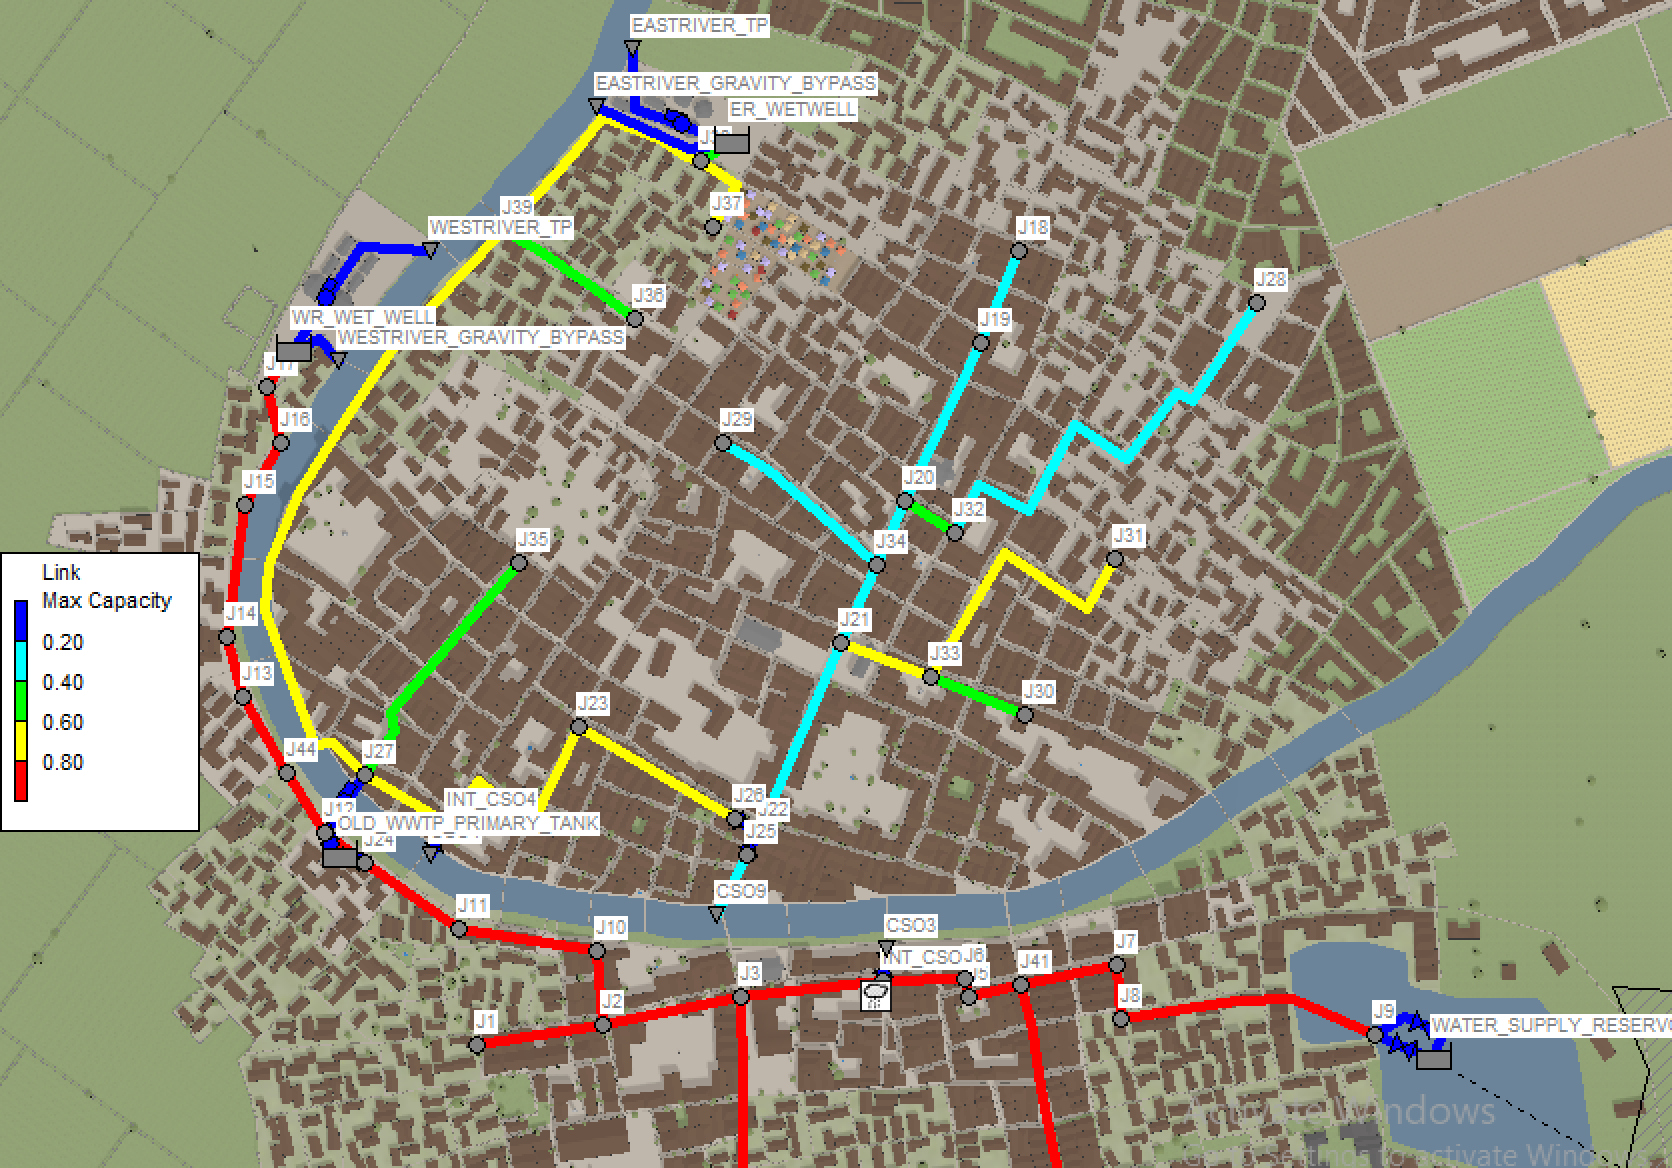
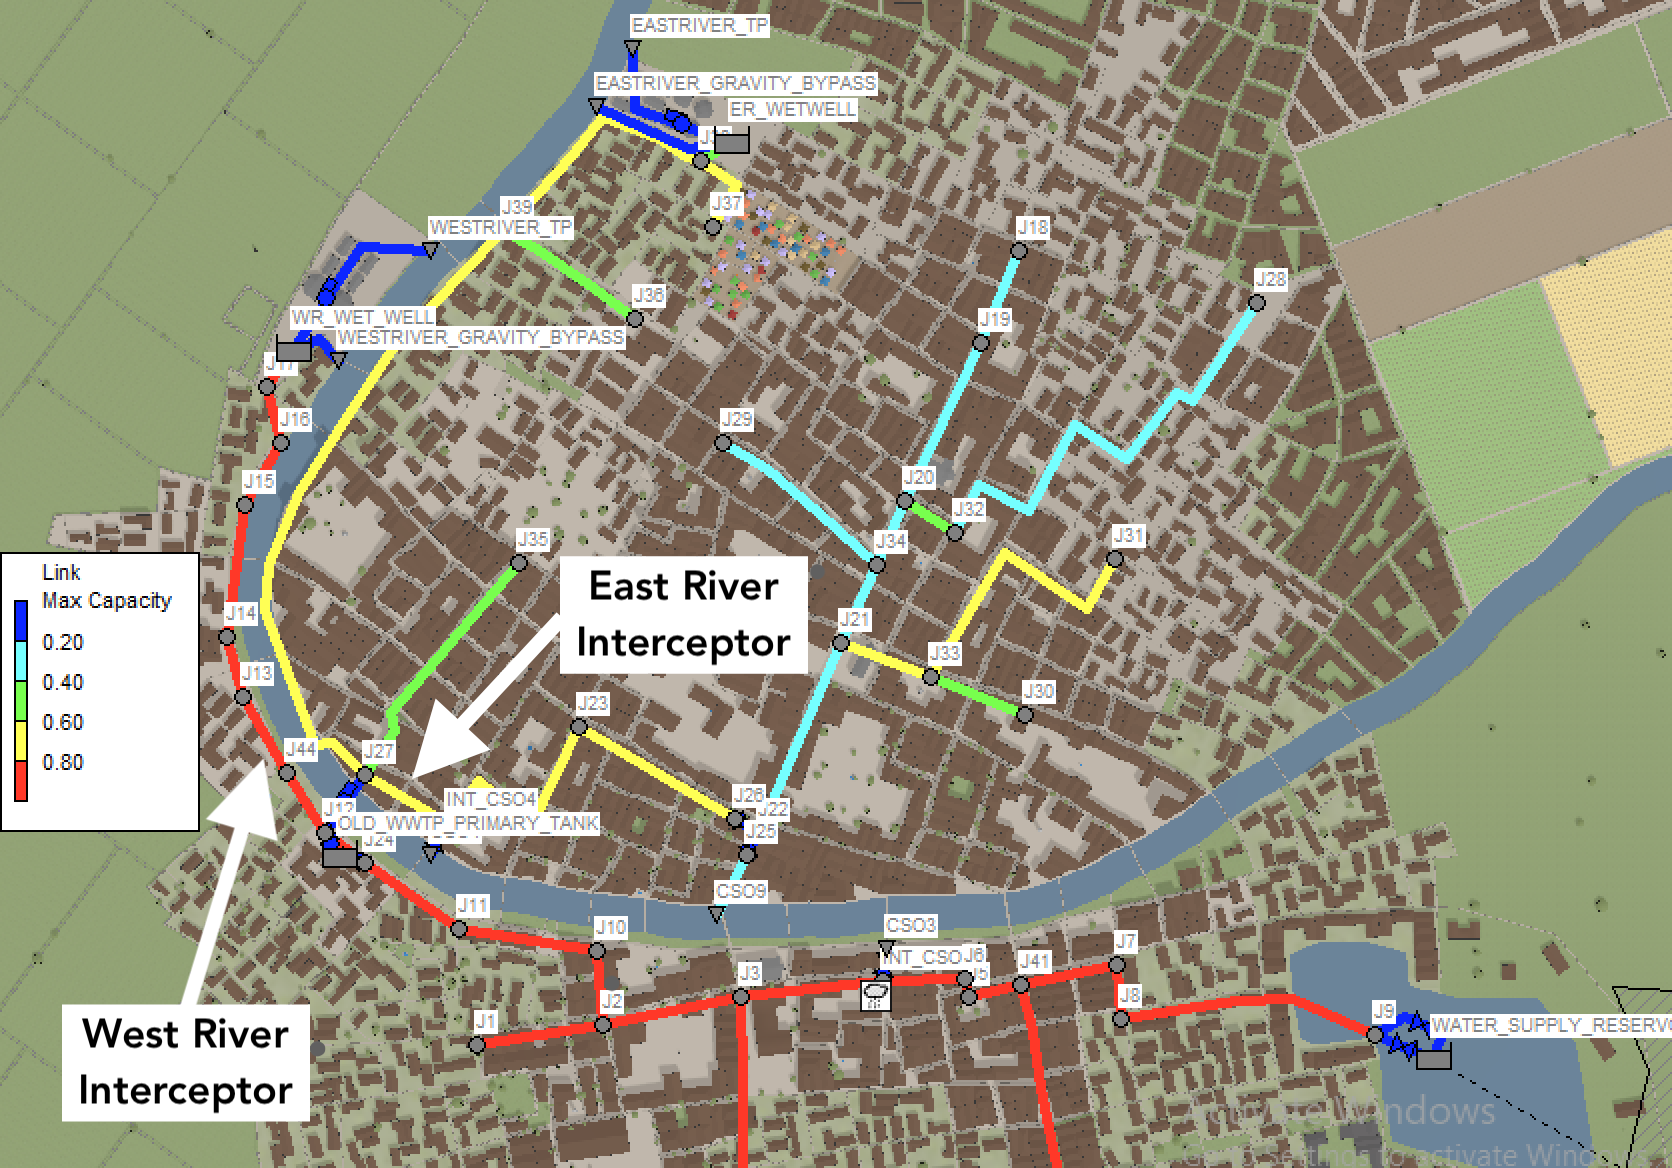
Updated README

diff --git a/README.md b/README.md
@@ -1,36 +1,98 @@
 # WEF Collection Systems and Stormwater Conference 2024 - Workshop A: Smart Sewer Applications and Utility Experiences
 
-Date: Mar 1st, 2024
+Date: Mar 4th, 2024
 
-Document Author(s): Bryant E. McDonnell, MS, PE, CP - [Hydroinformatics, LLC](https://www.hydroinformatics.io), Constantine Karos - [Xylem](www.xylem.com)
+Document Author(s): Bryant E. McDonnell - [Hydroinformatics, LLC](https://www.hydroinformatics.io), Constantine Karos - [Xylem](www.xylem.com), Luis Montestruque, [HydroDigital, LLC](https://www.hydrodigital.com/), Dayton Marchese, [OptiRTC](https://www.optirtc.com/), and Michael Tryby, USEPA
 
-Objective: Workshop Interactive Elements for Simulating a Network Controls
+Copyright (c) 2024: Hydroinformatics, LLC
+
+License: MIT License
+
+Objective: Workshop Interactive Elements for Simulating Network Real Time Controls
 
 ______
 
-This code / model was developed for the Water Environment Federation - Collection Systems and Stormwater Conference 2024.  This concept was to create a real-world hydrologic and hydraulic network with some adverse hydraulic conditions (flooding, surcharging, combined sewer overflows).  The attendees of the workshop are to be guided to propose and leverage available assets within the hydraulic network by use of real time controls.
+The code and model were developed for the Water Environment Federation - Collection Systems and Stormwater Conference 2024.  This concept was to create a real-world hydrologic and hydraulic network with some adverse hydraulic conditions (flooding, surcharging, combined sewer overflows).  The attendees of the workshop will be guided to develop and leverage <u>existing</u> system assets within the hydraulic network by use of real time controls.
 
 This scope of this code is to run the model as well as be a space where new control logic can be developed to operate the various controllable facilities.
 
 ____
 
-
+### System Layout
 
 ![base_condition](./_static/base_condition.png)
 
+### Compliance Objectives
+
+- Zero Flooding (Flow surfacing and coming up out of the top of a maintenance hole)
+- Zero CSO activations for the 1year storm event. Regulated by overflow site and fined $6,000 per activation. Activation == Overflow Volume > 0.001 MG. 
+- Zero Gravity bypasses at both WWTPs
+
 ### Key System Layout Details
 
-- The city if serviced by two WWTPs 
+- The city if serviced by two WWTPs
   - West River at 15 CFS peak | Gravity by-pass at 7ft wet-well depth
   - East River at 30 CFS peak | Gravity by-pass at 8ft wet-well depth
 - Three CSOs:
-  - North side of the river - CSO-4 and CSO-9.  CSO-4 is on the East River Interceptor and CSO-9 was the end of the original sewer ages ago where they did some primary treatment before they built the East River TP. 
+  - North side of the river - CSO-4 and CSO-9.  CSO-4 is on the East River Interceptor and CSO-9 was the end of the original sewer ages ago where they did some primary treatment before they built the East River TP.
   - South side of the river - CSO-3 situated on the West River Interceptor
-- River Crossing (can be pumped from South to the North side of the river)
-- Nearby the river crossing the Old WWTP Primary Tanks are still connected to the system as "gravity flow in", "pump out."  However, they are not used too frequently since there is a base cleaning cost.  They can be used during emergencies. This tank is approximately 0.5MG capacity of usable storage. 
-- The city drinking water reservoir is in the Southeast of town and has a dewater control gate as well as an emergency overflow.  Due to topography, the emergency overflow runs into the combined sewer system.  There is also a railroad running along the southern shoreline with limits opportunities.  
+- Nearby the river crossing the Old WWTP Primary Tanks are still connected to the system as "gravity flow in", "pump out."  However, they are not used too frequently since there is a base cleaning cost ($7,000 per event).  They can be used during emergencies. This tank is approximately 0.5MG capacity of usable storage.
+- River Crossing (can be pumped from South to the North side of the river).  This was built when they were in the process of decommissions the "Old WWTP" and after they expanded the East River TP
+- The city drinking water reservoir is in the Southeast of town and has a dewater control gate as well as an emergency overflow.  Due to topography, the emergency overflow runs into the combined sewer system.  There is also a railroad running along the southern shoreline with limits build opportunities  
 
-### Hydraulic Constraint Challenges
+### Hydraulic Constraint Challenges (Existing SOP)
 
-- Due to the side of the river, the West River TP is unable to procure the permit to discharge more. 
-- CSO-9 has an inflatable dam to limit overflow but the city does not have a good strategy in place to mange this asset and therefore leave it statically set.  Every storm event that passes, a new adjustment is made to ensure 
+- The city has no telemetered sensor data coming in and this is the reason they have opted for static control settings.
+- Due to the side of the river, the West River TP is unable to procure the permit to discharge more.
+- CSO-9 has an inflatable dam to limit overflow but the city does not have a good strategy in place to mange this asset and therefore leave it statically set.  Every storm event that passes, a new adjustment is made.
+- All CSOs use a brick to determine whether an overflow has occurred.  
+- The River Crossing Pump remains off since they do not have a good handle on preventing CSO4 from activating.
+
+
+
+The results for the current 1-year SCS-Type3 Compliance Storm event are as follows:
+
+
+| Volume Type              | No Control (MG) |
+| ------------------------ | :-------------: |
+| CSO3                     |      0.023      |
+| CSO4                     |      0.000      |
+| CSO9                     |      8.082      |
+| WESTRIVER_TP             |     36.933      |
+| WESTRIVER_GRAVITY_BYPASS |      5.399      |
+| EASTRIVER_TP             |     25.764      |
+| EASTRIVER_GRAVITY_BYPASS |      0.000      |
+| FLOODING_VOLUME (KGal)   |      0.003      |
+
+## Network Control Completed - Optimized
+
+With Controls the network behaves as follows:
+
+| Volume Type              | No Control (MG)          | W Control (MG)           |
+| ------------------------ | ------------------------ | ------------------------ |
+| CSO3                     | 0.032 :x:                | 0.000 :white_check_mark: |
+| CSO4                     | 0.000 :white_check_mark: | 0.000 :white_check_mark: |
+| CSO9                     | 0.615 :x:                | 0.000 :white_check_mark: |
+| WESTRIVER_TP             | 38.231                   | 37.712                   |
+| WESTRIVER_GRAVITY_BYPASS | 4.246 :x:                | 0.000 :white_check_mark: |
+| EASTRIVER_TP             | 32.557                   | 39.641                   |
+| EASTRIVER_GRAVITY_BYPASS | 0.000 :white_check_mark: | 0.000 :white_check_mark: |
+| FLOODING_VOLUME (KGal)   | 0.068 :x:                | 0.000 :white_check_mark: |
+
+#### East River Interceptor Peak Depth
+
+![ERI_PROFILE](./_static/ERI_PROFILE.png)
+
+#### CSO 9 Tributary Area Peak Depths
+
+![CSO9_PROFILE](./_static/CSO9_PROFILE.png)
+
+#### West River Interceptor Peak Depths
+
+![WRI_PROFILE](./_static/WRI_PROFILE.png)
+
+## Reference Packages Used
+
+- SWMMIO
+- PySWMM
+- Matplotlib
